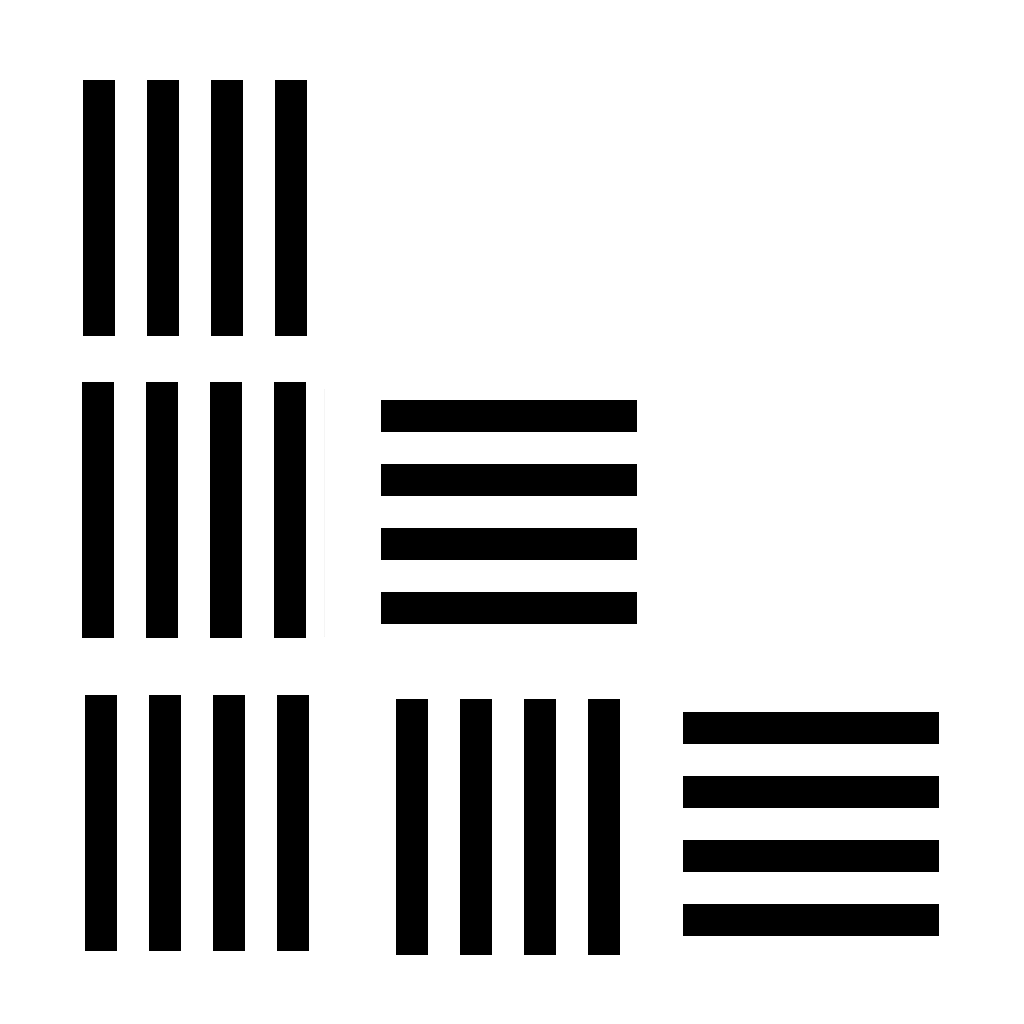
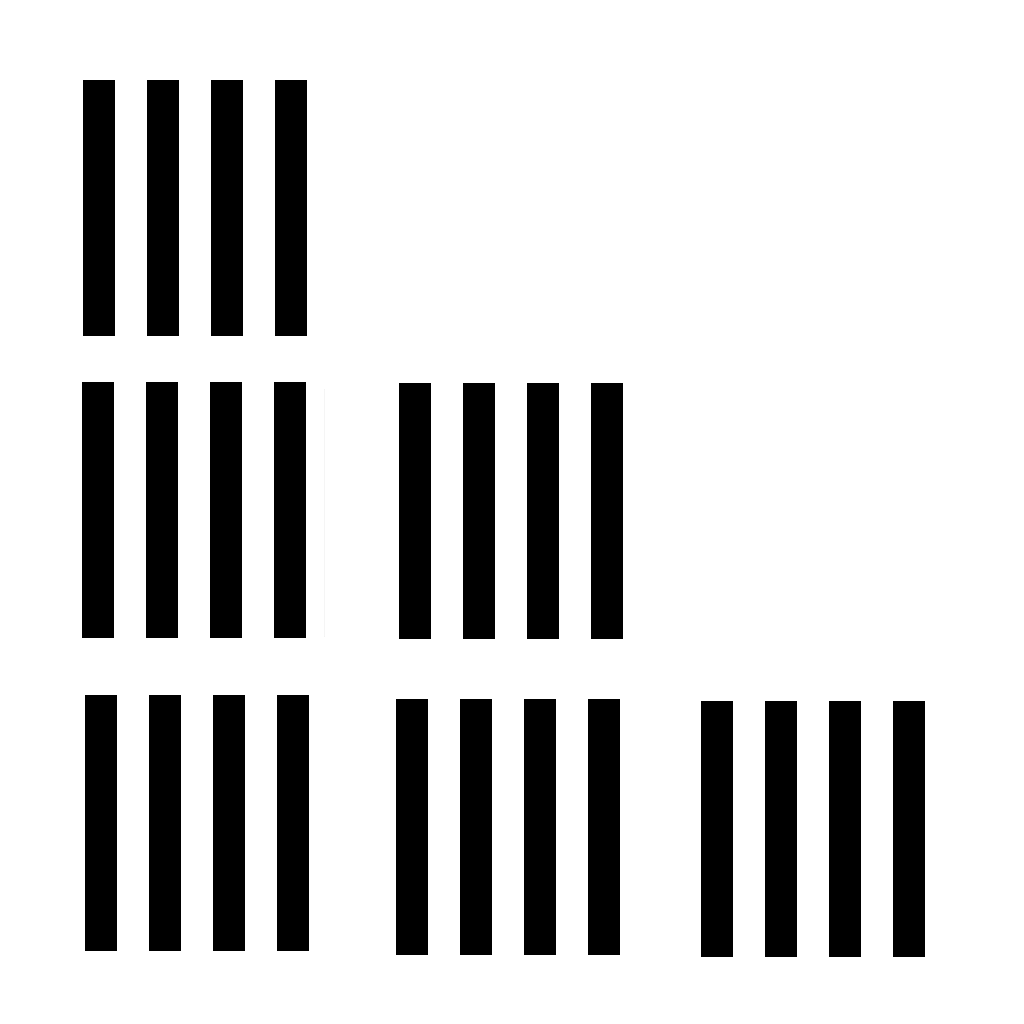
FIXED ORIENTATION FOR 2 + 2_low

Changed region(s): [[0.6562, 0.6875, 0.9375, 0.9375], [0.375, 0.375, 0.625, 0.625]]

diff --git a/Game/becky_zebra/main.cpp b/Game/becky_zebra/main.cpp
@@ -452,6 +452,9 @@ const std::vector<float> protean =
 };
 
 ///currently rand, parallel, perp
+///want to have 5 levels of contrast for pilot
+///0.25, 0.5, 0.75, 0.875(?), 1
+
 const std::vector<std::string> stripe_names =
 {
     //"../Res/tex_cube.obj",
@@ -625,9 +628,7 @@ int main(int argc, char *argv[])
 
     simulation_info info;
 
-    objects_container* zebras;
-    zebras = nullptr;
-
+    objects_container* zebras = nullptr;
 
     objects_container base;
     base.set_file("../../objects/square.obj");
@@ -654,11 +655,6 @@ int main(int argc, char *argv[])
     obj_mem_manager::load_active_objects();
 
     ///no wait, scaling before loading means nothing. Need to make transform stack, or assert
-    //base.scale(20000.0f);
-
-    //base.set_pos({0, -200, 0});
-
-    //base.set_pos({});
 
     base.set_pos({(zebra::maxx - zebra::minx)/2, -200, (zebra::maxy - zebra::miny)/2});
 
@@ -733,7 +729,7 @@ int main(int argc, char *argv[])
     l.shadow = 0;
     l.radius = 1000000;
 
-    light* to_modify = window.add_light(&l);
+    window.add_light(&l);
 
     window.construct_shadowmaps();
 
@@ -746,11 +742,7 @@ int main(int argc, char *argv[])
     auto runs = generate_runs();
     int current_run = 0;
 
-    //FILE* logfile = init_log("results.txt");
-    //FILE* logfile_average = init_log("results_average.txt");
-
-
-    const float set_angle = 45;//(45/360.f) * M_PI*2;
+    const float set_angle = 45;
 
     cl_float4 cpos = angle_to_position(set_angle);
 
@@ -762,8 +754,6 @@ int main(int argc, char *argv[])
 
 
     info.simulation_time.restart();
-
-    //int striped = 0;
 
     int average_state = 0;
     float distance_accum = 0;
@@ -849,14 +839,8 @@ int main(int argc, char *argv[])
 
             if(!first_start)
             {
-                /*log(logfile_average, to_str(distance_accum / distance_num));
-                log(logfile_average, to_str(distance_total / distance_tot_num));
-
-                log(logfile_average, "\n\nNEXT\n", 0);*/
-
                 run_list[last_cfg].distance[run_list[last_cfg].current_time++] = distance_accum / distance_num;
                 run_list[last_cfg].distance[run_list[last_cfg].current_time++] = distance_total / distance_tot_num;
-                //run_list[last_cfg].avg = distance_total / distance_tot_num;
             }
 
             average_state = 0;
@@ -893,8 +877,6 @@ int main(int argc, char *argv[])
             window.set_camera_pos(c_pos);
             window.set_camera_rot(c_rot);
 
-            //window.set_camera_rot(viewing_angle);
-
             info.simulation_time.restart();
 
             current_run++;
@@ -903,44 +885,6 @@ int main(int argc, char *argv[])
         ///simulation start
         if(!info.running && mouse.isButtonPressed(sf::Mouse::Left))
         {
-            //log(logfile, "\n\nNEXT\n", 0);
-
-            //run_config this_cfg = runs[current_run-1];
-
-            /*log(logfile, "\ngroup_size\n", 0);
-            log(logfile, to_str(group_sizes[this_cfg.group_size]), 0);
-
-            log(logfile, "\nprotean\n", 0);
-            log(logfile, to_str(protean[this_cfg.protean_num]), 0);
-
-            log(logfile, "\nstripe_type\n", 0);
-            log(logfile, to_str(this_cfg.stripe_num), 0);
-
-            float viewing_angle = viewing_angles[this_cfg.viewing_num];
-
-            cl_float4 c_pos = angle_to_position(viewing_angle);
-            cl_float4 c_rot = angle_to_rotation(viewing_angle);
-
-            log(logfile, "\nviewing_angle\n", 0);
-
-            ///fix
-            log(logfile, to_str(c_rot.x), 0);
-            log(logfile, to_str(c_rot.y));
-            log(logfile, to_str(c_rot.z));
-
-
-            log(logfile, "\nviewing_position\n", 0);
-
-            ///fix
-            log(logfile, to_str(c_pos.x), 0);
-            log(logfile, to_str(c_pos.y));
-            log(logfile, to_str(c_pos.z));
-
-            log(logfile, "\nDATA\n", 0);*/
-
-
-
-
             info.running = true;
             info.clock_active = true;
 
@@ -1006,8 +950,6 @@ int main(int argc, char *argv[])
             int mx = window.get_mouse_x();
             int my = window.height - window.get_mouse_y();
 
-            //float distance = zebra::distance_from_zebra(info.selected_zebra, mx, my);
-
             cl_float4 zebra_screen = engine::project(zebra::zebra_objects[info.selected_zebra].obj->pos);
 
             float xd = mx - zebra_screen.x;
@@ -1020,18 +962,6 @@ int main(int argc, char *argv[])
 
             distance_total += distance;
             distance_tot_num++;
-
-            //printf("%f %i %i\n", distance, mx, my);
-
-            std::string dist(to_str(distance)), mxs(to_str(xd)), mys(to_str(yd));
-
-
-            /*log(logfile, dist, 0);
-            log(logfile, mxs);
-            log(logfile, mys);
-
-            log(logfile, to_str(c.getElapsedTime().asMicroseconds()));
-            log(logfile, "\n", 0);*/
         }
 
         ///log accumulated zebra times to file
@@ -1067,8 +997,6 @@ int main(int argc, char *argv[])
 
                 run_config this_cfg = runs[current_run-1];
 
-                //log(logfile_average, to_str(val));
-
                 time_storage store = run_list[this_cfg];
                 store.distance[store.current_time++] = val;
                 run_list[this_cfg] = store;
@@ -1084,6 +1012,4 @@ int main(int argc, char *argv[])
 
         //std::cout << c.getElapsedTime().asMicroseconds() << std::endl;
     }
-
-    //fclose(logfile);
 }
